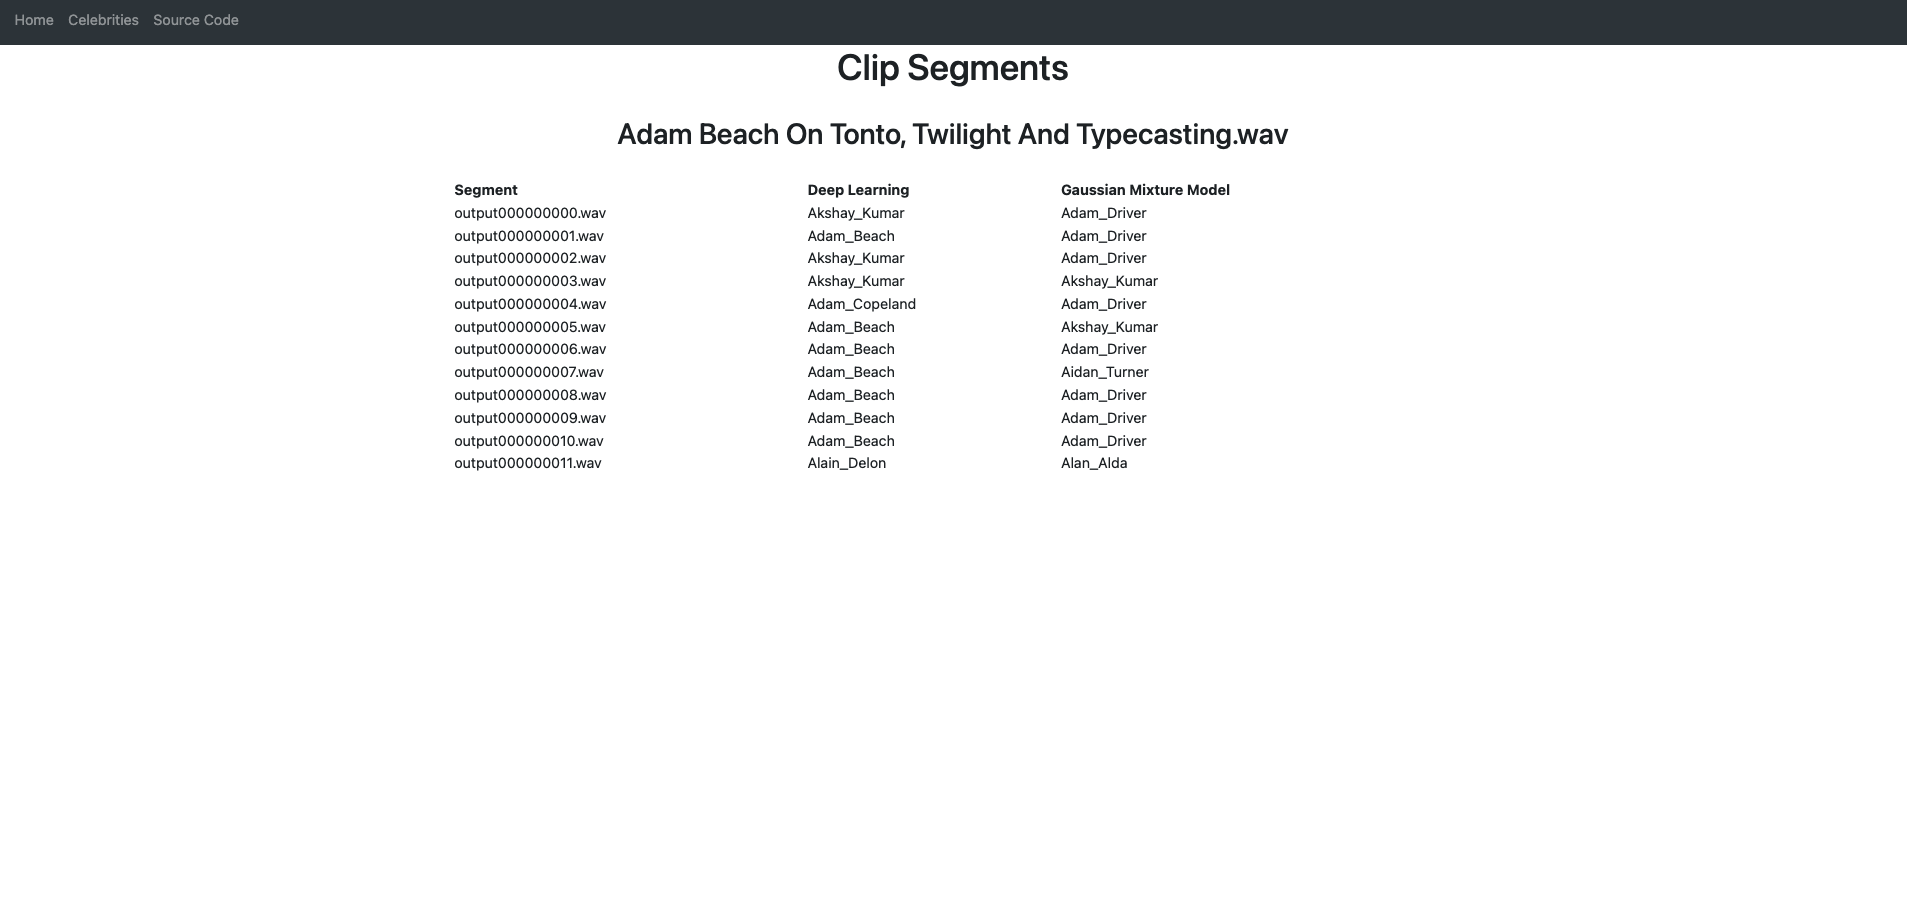
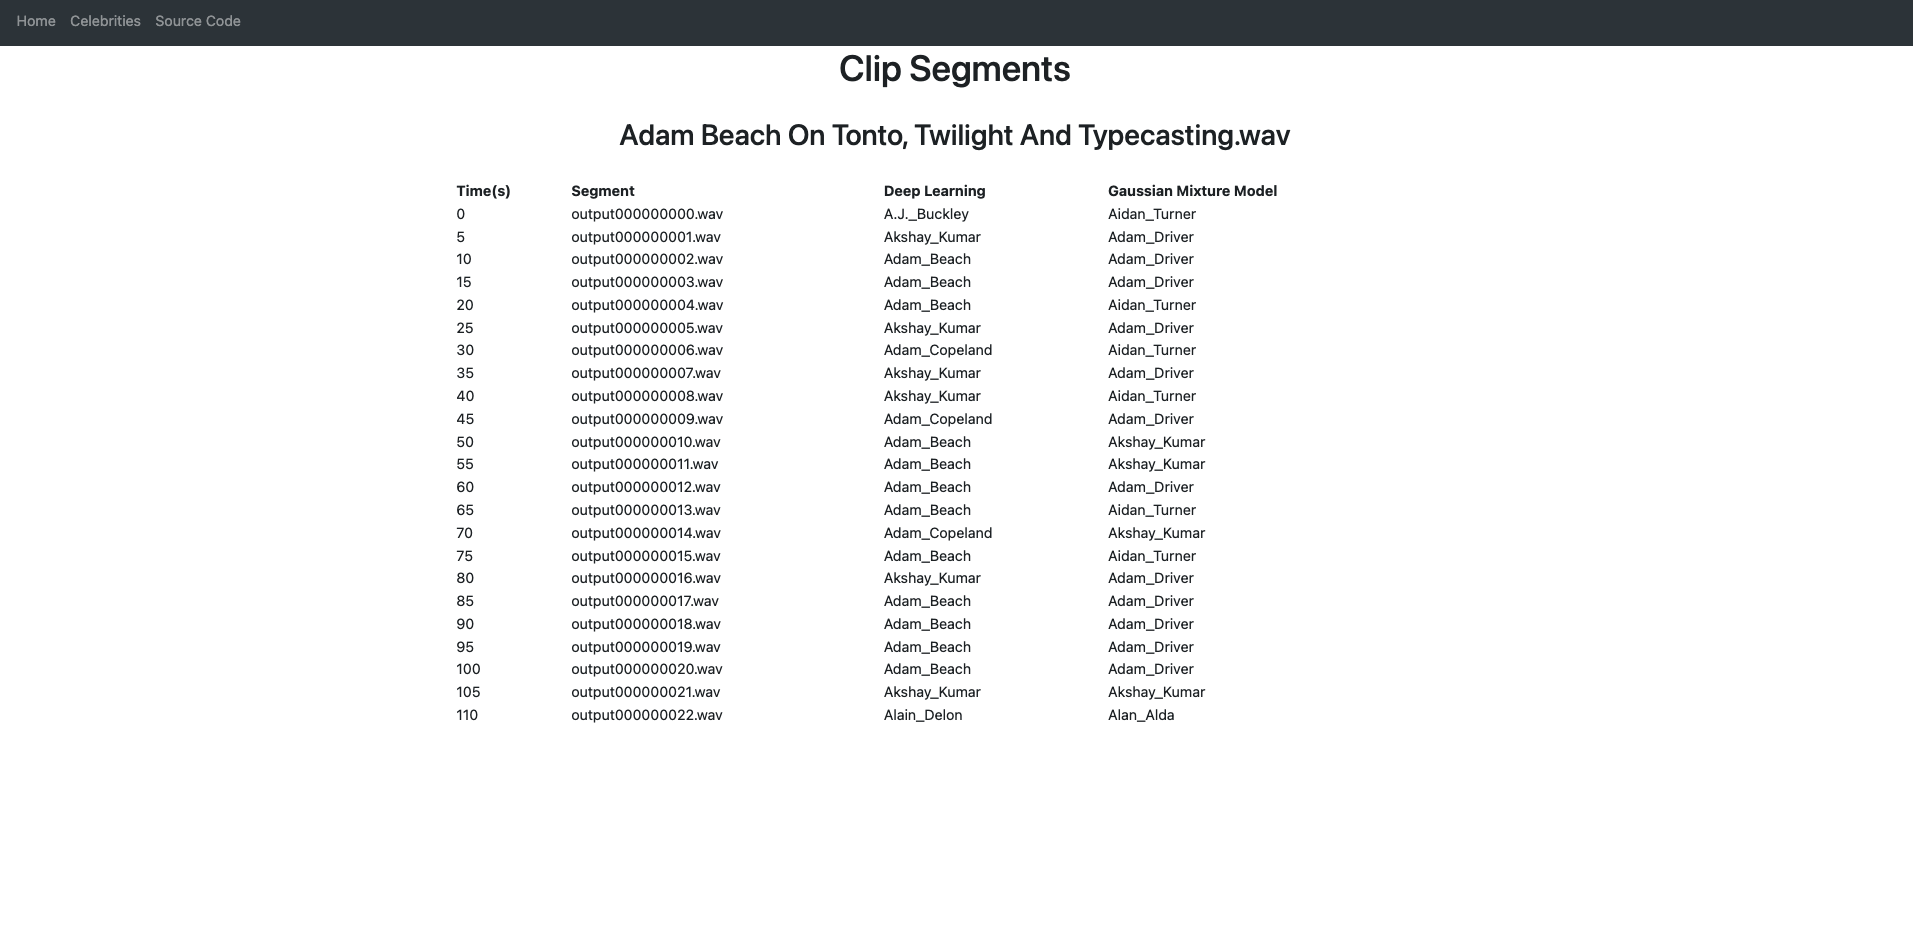
time in seconds column in segments page

diff --git a/app/website/templates/segments.html b/app/website/templates/segments.html
@@ -6,18 +6,22 @@
     </br>
     <table align="center" width='100%'>
       <tr>
+        <th>Time(s)</th>
         <th>Segment</th>
         <th>Deep Learning</th>
         <!-- <th>Probabilities</th> -->
         <th>Gaussian Mixture Model</th>
         <!-- <th>Listen</th> -->
       </tr>
+      {% set ns = namespace(index=0) %}
       {% for key, value in pred_dict.items() %}
       <tr>
+          <td class="c1">{{ns.index * segment_duration}}</td>
          <td class="c2">{{ key }}</td>
          <td class="c4"><SPAN>{{value.matched_speaker_nn}}</SPAN></td>
          <!-- <td class="c3">{{value.y_pred_nn}}</td> -->
          <td class="c3"><SPAN>{{value.matched_speaker_gmm}}</SPAN></td>
+         {% set ns.index = ns.index + 1 %}
          <!-- <td class="c5"><button type="button" class="bi bi-play" onClick="playSound('{{ key }}')">
           <span aria-hidden="true">&times;</span>
         </button></td> -->

diff --git a/app/website/views.py b/app/website/views.py
@@ -29,8 +29,9 @@ def home():
         else:
             file = upload
 
-        pred_dict = make_predict(file=file, segment_duration=10)
-        return render_template("segments.html", title = file.rsplit('/', 1)[-1],  pred_dict=pred_dict)
+        segment_duration=5
+        pred_dict = make_predict(file=file, segment_duration=segment_duration)
+        return render_template("segments.html", title = file.rsplit('/', 1)[-1],  pred_dict=pred_dict, segment_duration=segment_duration)
     else:    
         return render_template("home.html")
 
